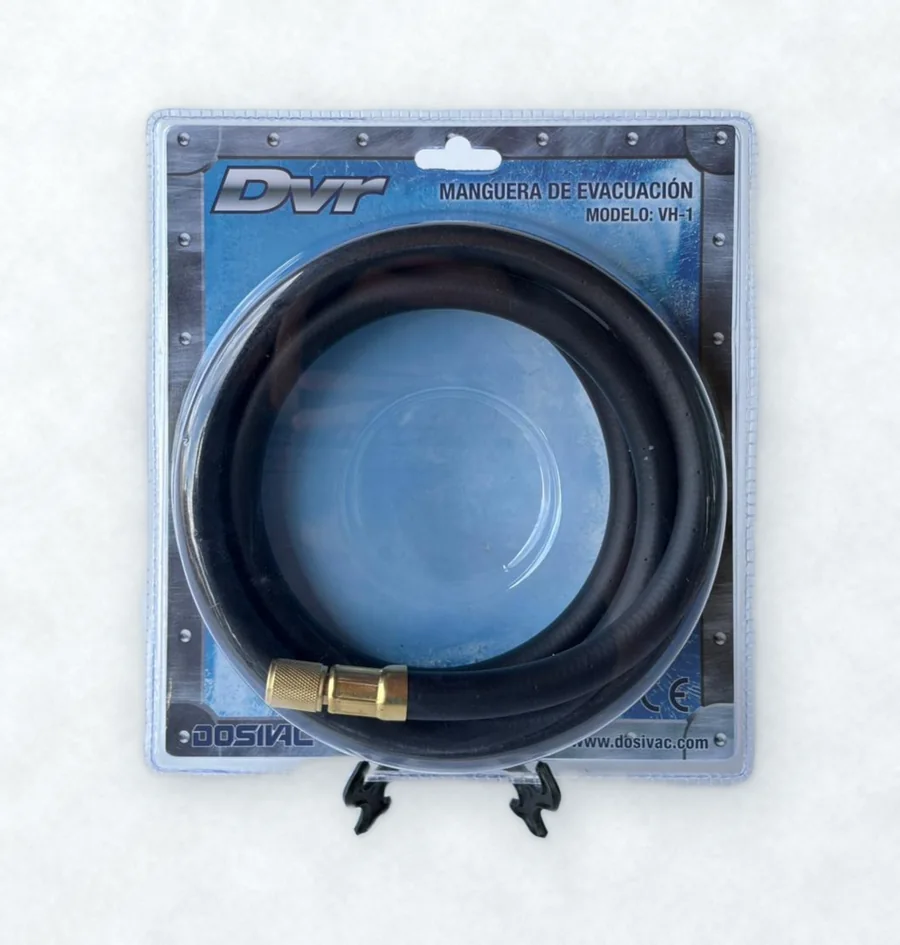
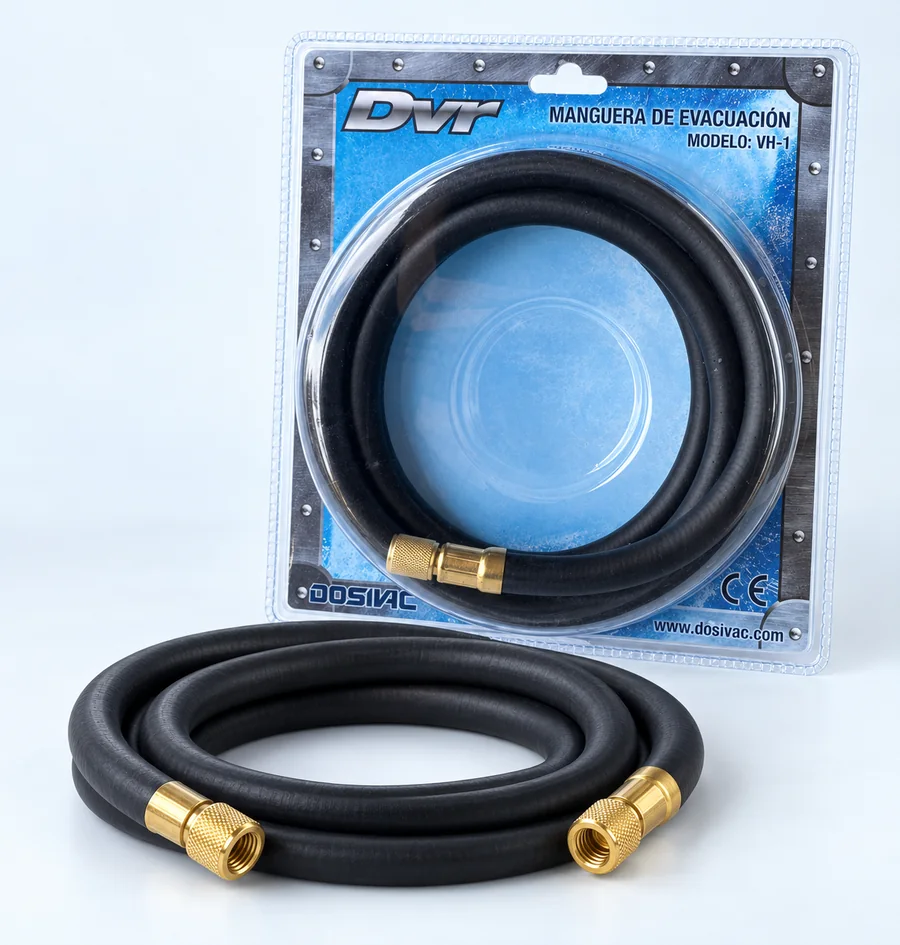
Combo: fotos nuevas del dueño, foto propia para bombas DVR aptas R32

diff --git a/js/combo.js b/js/combo.js
@@ -44,8 +44,10 @@
     { test: /supervac\s*vp\s*1\b/, src: 'img/supervac-vp1.webp' },
     { test: /supervac\s*vp\s*2\b/, src: 'img/supervac-vp2.webp' },
     { test: /manguera/, src: 'img/manguera.webp' },
-    { test: /aceite/, src: 'img/aceite.webp' },
-    // Las 4 bombas DVR usan la misma foto ("dvp" por si la 4A vuelve a escribirse con P).
+    // Bombas DVR: las aptas R32 tienen su propia foto (va primero); las demás usan la DVR común.
+    // ("dvp" por si la 4A vuelve a escribirse con P).
+    { test: /\b(dvr|dvp)\s*[1-4]a\b.*\br32\b/, src: 'img/bomba-dvr-r32.webp',
+      nota: 'Imagen ilustrativa de la línea DVR. Cambia la capacidad.' },
     { test: /\b(dvr|dvp)\s*[1-4]a\b/, src: 'img/bomba-vacio.webp',
       nota: 'Imagen ilustrativa de la línea DVR. Cambia la capacidad.' },
     { test: /vacuometro/, src: 'img/vacuometro.webp' }

diff --git a/NOTAS.md b/NOTAS.md
@@ -71,21 +71,16 @@ datos personales, vínculos comerciales privados). El dueño los explica en el c
 1. ✅ **Nota en bombas DVR** (hecho): misma foto (`img/bomba-vacio.webp`) para DVR 1A, 2A, 3A y 4A, con la nota
    "Imagen ilustrativa de la línea DVR. Cambia la capacidad." En el Excel la 4A está mal escrita como "DVP 4A":
    el dueño la corrige a "DVR 4A" (la web acepta las dos).
-2. ✅ **Fotos del combo** (hecho, falta el OK del dueño): todos los productos del combo tienen foto. Fuente: Google
-   Drive, carpeta "Refri Mundo Productos". Originales en `material/`, optimizadas a 800×840 en `img/`.
-   - Elegidas por Claude (el dueño se lo delegó): VP1/VP2 = capturas limpias sobre fondo blanco; aluminio = `14.png`;
-     manifold sin app = `MOTOCOMPRESORES (54).png`; manguera = `8.png`; aceite = `Diseño_sin_título_(4).png`.
-   - **Lección Higgsfield**: `upscale_image` (bytedance 2K) **inventa letras** en textos chicos de etiquetas
-     (ej. "ACEITE" → "ACEIT2"). Solo se usó la mejorada del manifold digital sin app (no tiene texto chico).
-     VP1, VP2 y aceite van con la original. Siempre comparar con zoom antes de usar una foto mejorada.
-   - Pendiente opcional: una foto mejor del aceite (la botella original mide ~107×227 px y se ve algo suave),
-     y el producto es "x 2u" pero la foto muestra una botella.
-   - **Estilo de fotos** (pedido del dueño): todas como `img/bomba-vacio.webp`, `vacuometro.webp` y
-     `manifold-digital.webp` → producto sobre pared gris celeste clara con sombra suave, 900×945. Se hacen así:
-     `remove_background` de Higgsfield (1 crédito) solo como máscara + píxeles de la foto original encima, sobre un
-     fondo generado por código. Los kits (manifold de aluminio y digital sin app) imitan `manifold-digital.webp`:
-     valija abierta y valija/caja atrás, manifold adelante. Nada redibujado por IA.
-   - Claude **sí puede** ver las fotos: las baja de Drive (`uc?export=download&id=ID`) y las mira localmente.
+2. **Fotos del combo** (falta el OK del dueño): **las fotos las hace el dueño** y las sube a Drive, carpeta
+   "Refri Mundo Productos" → "fotos web". Claude solo las baja (`uc?export=download&id=ID`), las lleva a
+   **900×945** (forma de la tarjeta) y las pone en `img/`; originales en `material/`.
+   - Si la foto es más angosta que la tarjeta, se agrega pared a los costados estirando el borde de la misma foto
+     (el dueño lo aprobó); nunca se recorta el producto ni se lo retoca.
+   - Bombas DVR: las que dicen "R32" en el nombre → `img/bomba-dvr-r32.webp`; las demás → `img/bomba-vacio.webp`.
+     Ambas con la nota "Imagen ilustrativa de la línea DVR. Cambia la capacidad."
+   - Falta: foto del **aceite** (por ahora sale "Foto próximamente").
+   - **Higgsfield: no usarlo para nada sin el OK explícito del dueño.** Las pruebas anteriores (mejora 2K que
+     inventaba letras y fotos compuestas con fondo armado) salieron mal y se descartaron.
 3. **Publicar el combo** cuando el dueño dé el OK: botón "Armá tu combo" en la página principal, quitar el
    `noindex` de `combo.html`, agregarla a `sitemap.xml`, actualizar `data/productos.json` y pedir merge.
 4. Opcionales conversados: redirigir `refrimundo.ar`; contador de ventas de Mercado Libre vía API;
